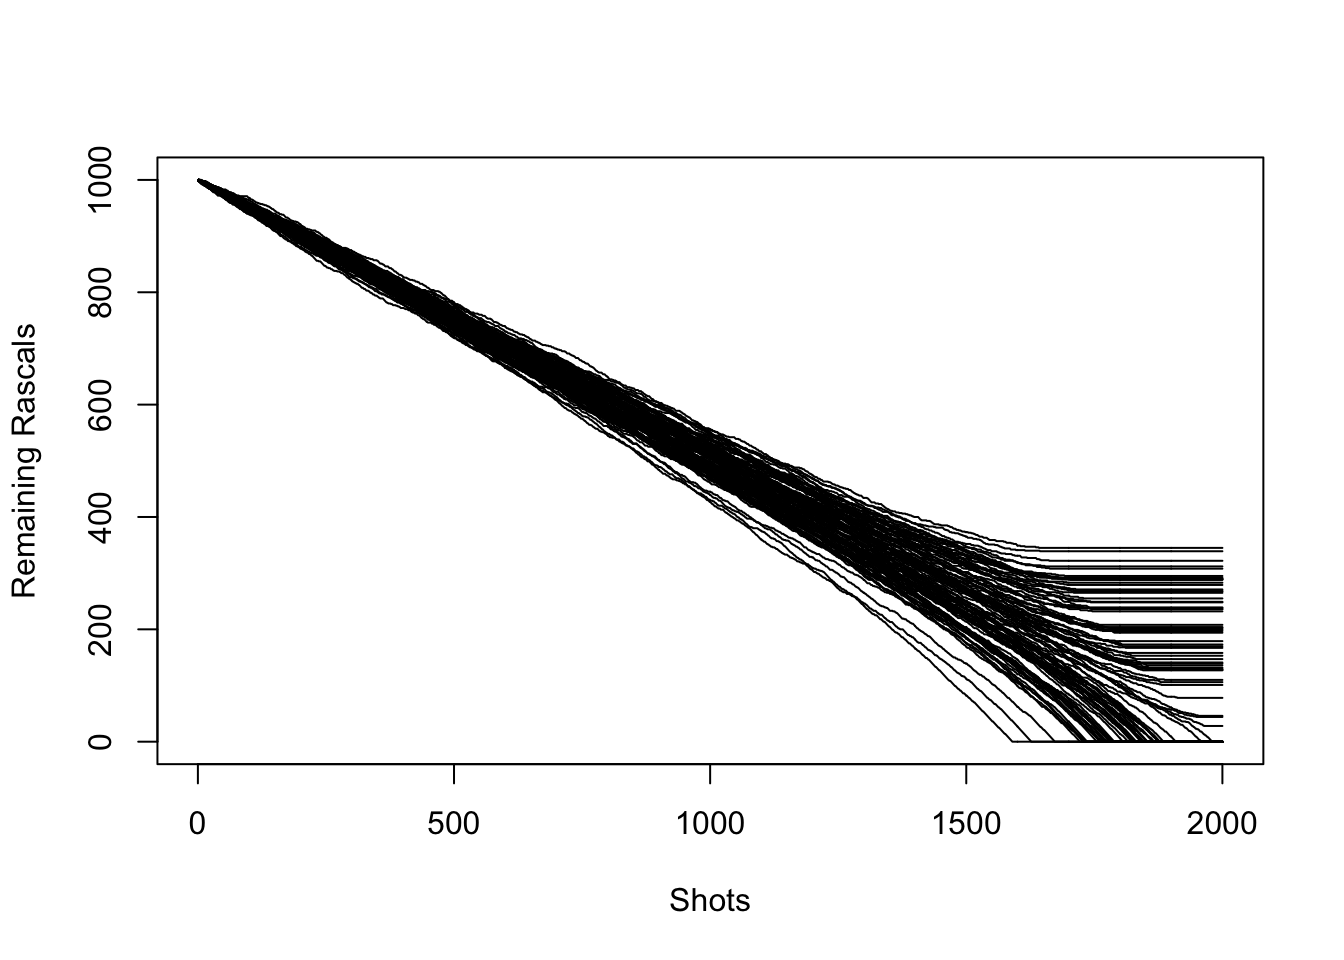
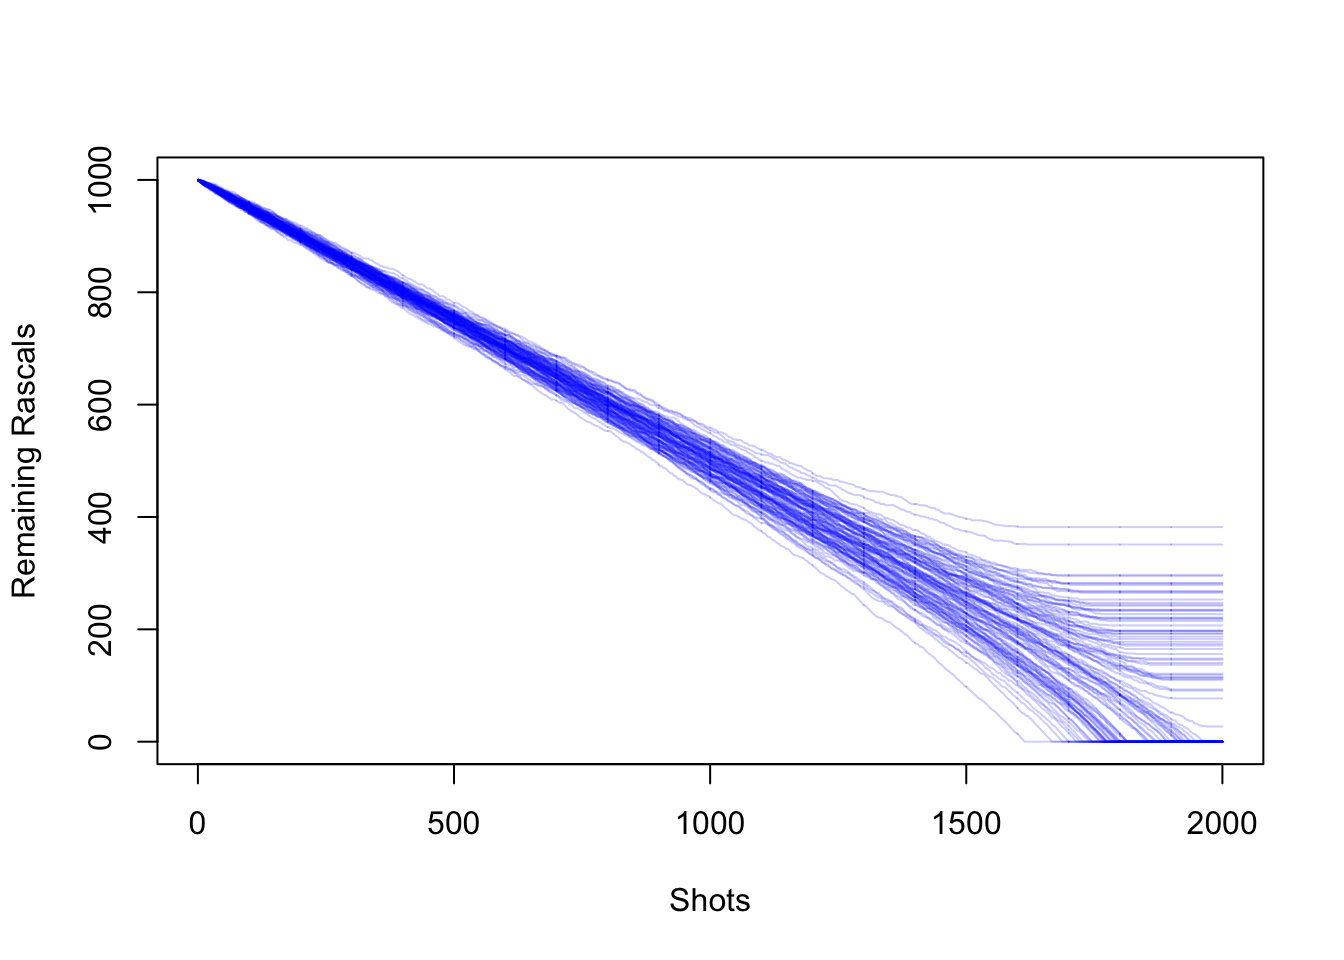
Updates on newlab 5

Changed region(s): [[0.1562, 0.1875, 0.9375, 0.7812]]

diff --git a/_site/newlab5.html b/_site/newlab5.html
@@ -442,7 +442,7 @@ addmval2(6)</code></pre>
 }else{
     1
   }</code></pre>
-<pre><code>## [1] 1</code></pre>
+<pre><code>## [1] 0</code></pre>
 <p>What going on here? Your yes or no question will be wrapped inside <TT>if()</TT>. In our case, we’re asking whether <TT>runif(1)</TT>, a randomly generated number between 0 and 1, is less than or greater than .5. Certainly, there’s a 50% chance that the answer is yes. The code which runs when the answer to your if statement is yes is then contained in curly braces. In our case, we simply return 0.</p>
 <p>If the answer to our question is no, we can simply write nothing more, and our code will simply do nothing. On the other hand, if you want a block of code to run, you will else an <TT>else</TT> statement. Make sure to place <TT>else</TT> on the same line as the closing brace of <TT>if</TT>. In our case, if the answer is no, we produce a 1.</p>
 <p>For convenience, we can wrap this argument into a function. In fact, we’ll generalize, and simulate a biased coin that returns a 1 with probability <span class="math inline">\(p\)</span> and a 0 with probability <span class="math inline">\(1-p\)</span>:</p>
@@ -457,11 +457,11 @@ if (runif(1)&lt;p){
 
 
 flip(.7)</code></pre>
-<pre><code>## [1] 1</code></pre>
-<pre class="r"><code>flip(.7)</code></pre>
-<pre><code>## [1] 1</code></pre>
-<pre class="r"><code>flip(.7)</code></pre>
 <pre><code>## [1] 0</code></pre>
+<pre class="r"><code>flip(.7)</code></pre>
+<pre><code>## [1] 1</code></pre>
+<pre class="r"><code>flip(.7)</code></pre>
+<pre><code>## [1] 1</code></pre>
 <pre class="r"><code>flip(.7)</code></pre>
 <pre><code>## [1] 1</code></pre>
 <p>Our function <TT>flip</TT> is a function of one variable <span class="math inline">\(p \in [0,1]\)</span>. Because this function uses random numbers, we should not expect the same answers each time we run this function.</p>
@@ -688,7 +688,7 @@ while( min(c(V,R) != 0)){
 
 
 
-plot(totrasc, type = &#39;l&#39;)</code></pre>
+plot(totrasc, type = &#39;l&#39;, xlab = &#39;Shots&#39;, ylab = &#39;Remaining Rascals&#39;)</code></pre>
 <p><img src="newlab5_files/figure-html/unnamed-chunk-17-1.png" width="672" /></p>
 <p>Now let’s plot 100 such paths.</p>
 <pre class="r"><code>vinit = 1000
@@ -728,14 +728,14 @@ for (j in 1:paths){
 
 }
 
-matplot(t(rascalpaths), type = &#39;l&#39;, col = &#39;black&#39;,lty = 1, xlab = &#39;Shots&#39;, ylab = &#39;Remaining Rascals&#39;)</code></pre>
+matplot(t(rascalpaths), type = &#39;l&#39;, col = rgb(0, 0, 1,  alpha = .2),lty = 1, xlab = &#39;Shots&#39;, ylab = &#39;Remaining Rascals&#39;)</code></pre>
 <p><img src="newlab5_files/figure-html/unnamed-chunk-18-1.png" width="672" /></p>
 <p>Note that when a rascal path is flat, then this means that the Rascals have won the gunfight. Let’s take a look at a histogram of the number of survivors.</p>
 <pre class="r"><code>hist(numdraws, breaks = 20)</code></pre>
 <p><img src="newlab5_files/figure-html/unnamed-chunk-19-1.png" width="672" /></p>
-<p>An absolutely remarkable result from Williams and McIlroy, in their short paper <em>The OK Corral and the Power of the Law (A Curious Poisson-Kernel Formula for a Parabolic Equation)</em> is that if the intial number of Rascals and Varmints are then same, then the expected number of survivors satisfies</p>
+<p>An absolutely remarkable result from Williams and McIlroy, in their short paper <em>The OK Corral and the Power of the Law (A Curious Poisson-Kernel Formula for a Parabolic Equation)</em> is that if the initial number of Rascals and Varmints are then same, then the expected number of survivors satisfies</p>
 <p><span class="math display">\[
-\mathbb E[S] \sim 2(3)^{1/4}\pi^{-1/2}\Gamma(3/4)r_0
+\mathbb E[S] \sim 2(3)^{1/4}\pi^{-1/2}\Gamma(3/4)r_0^{3/4}
 \]</span> where</p>
 <p><span class="math display">\[ \Gamma(s) = \int_0^\infty x^{s-1}e^{-x} dx, \quad s&gt;0\]</span> and <span class="math inline">\(r_0\)</span> is the initial number of rascals. Also, <span class="math inline">\(\mathbb E[S]\)</span> is the <strong>expected value</strong> of the random quantity <span class="math inline">\(S\)</span>. This means that if we ran the experiment many times and took the average number of survivors, we would have something very close to <span class="math inline">\(\mathbb E[S]\)</span>. Finally, we write <span class="math inline">\(f(x) \sim g(x)\)</span> if <span class="math inline">\(f(x)/g(x) \rightarrow 1\)</span> as <span class="math inline">\(x \rightarrow \infty\)</span>.</p>
 <p>Let’s test if this result holds in our experiments:</p>
@@ -748,7 +748,7 @@ K = 3^{-1/4}*pi^{-1/2}*gamma(3/4)
 guess = 2*K*vinit^(3/4)
 
 pathsampmean/guess</code></pre>
-<pre><code>## [1] 1.070088</code></pre>
+<pre><code>## [1] 1.024861</code></pre>
 <p>Not bad!</p>
 </div>
 </div>
